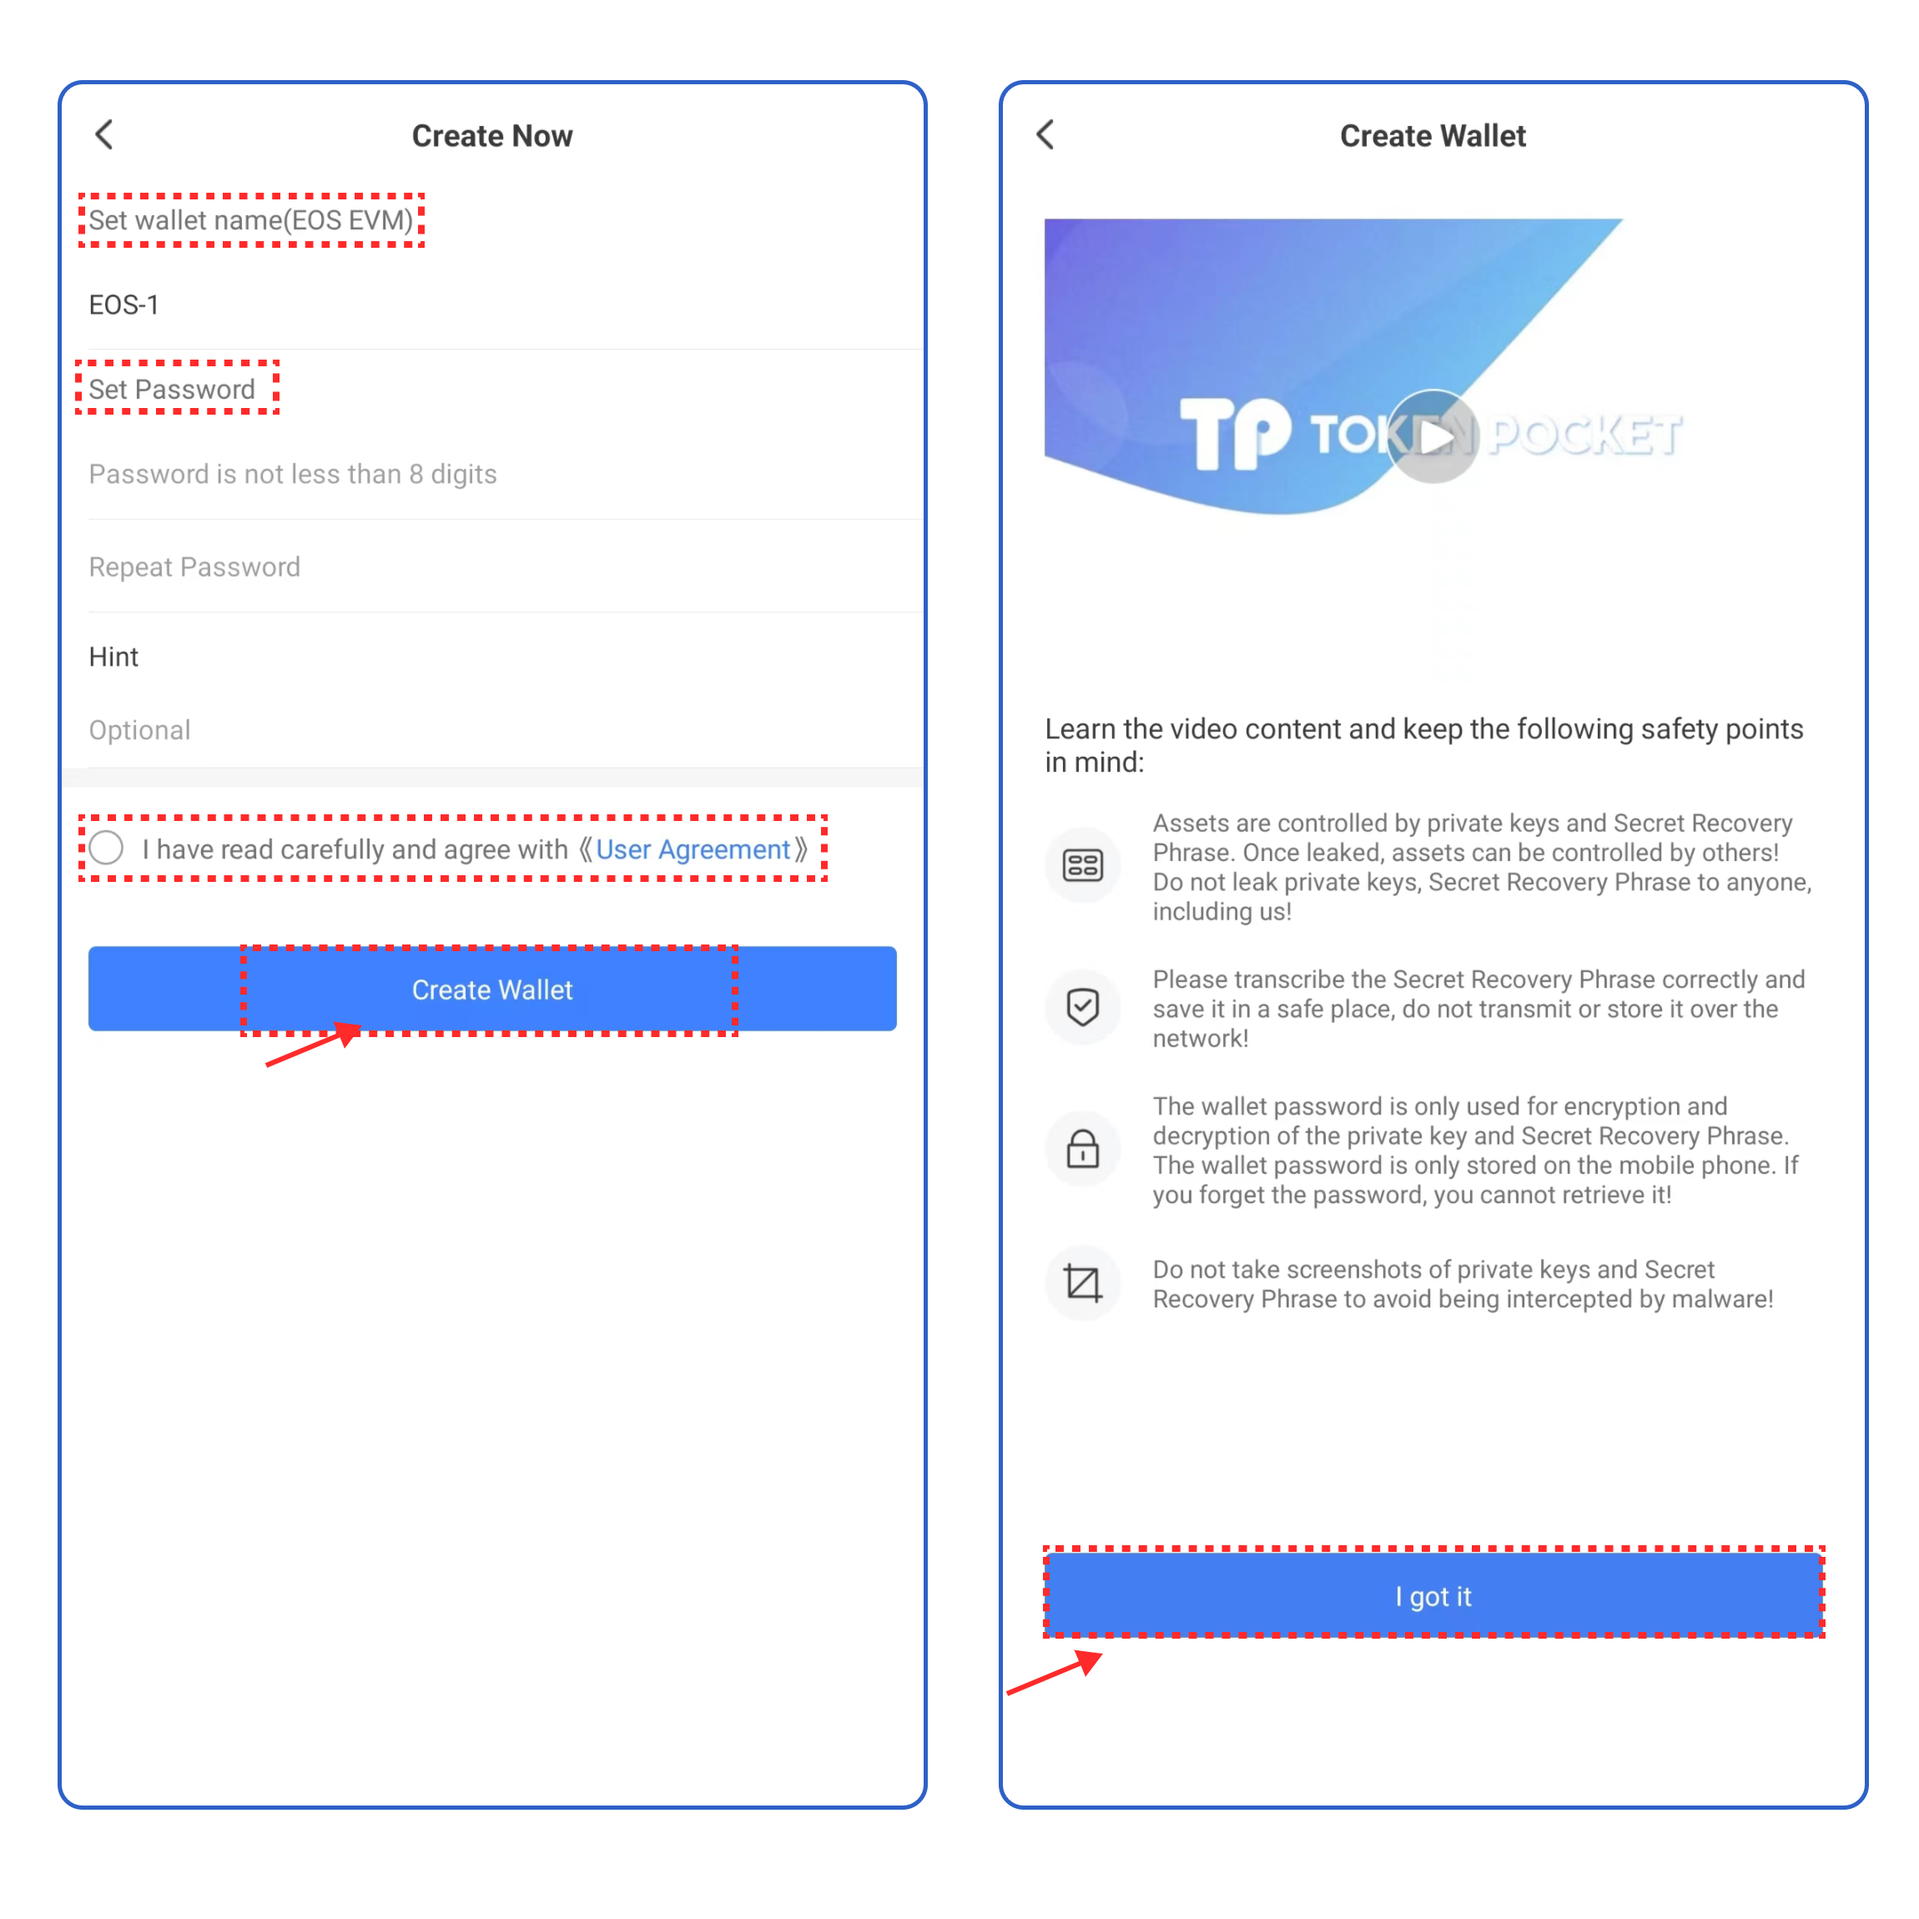
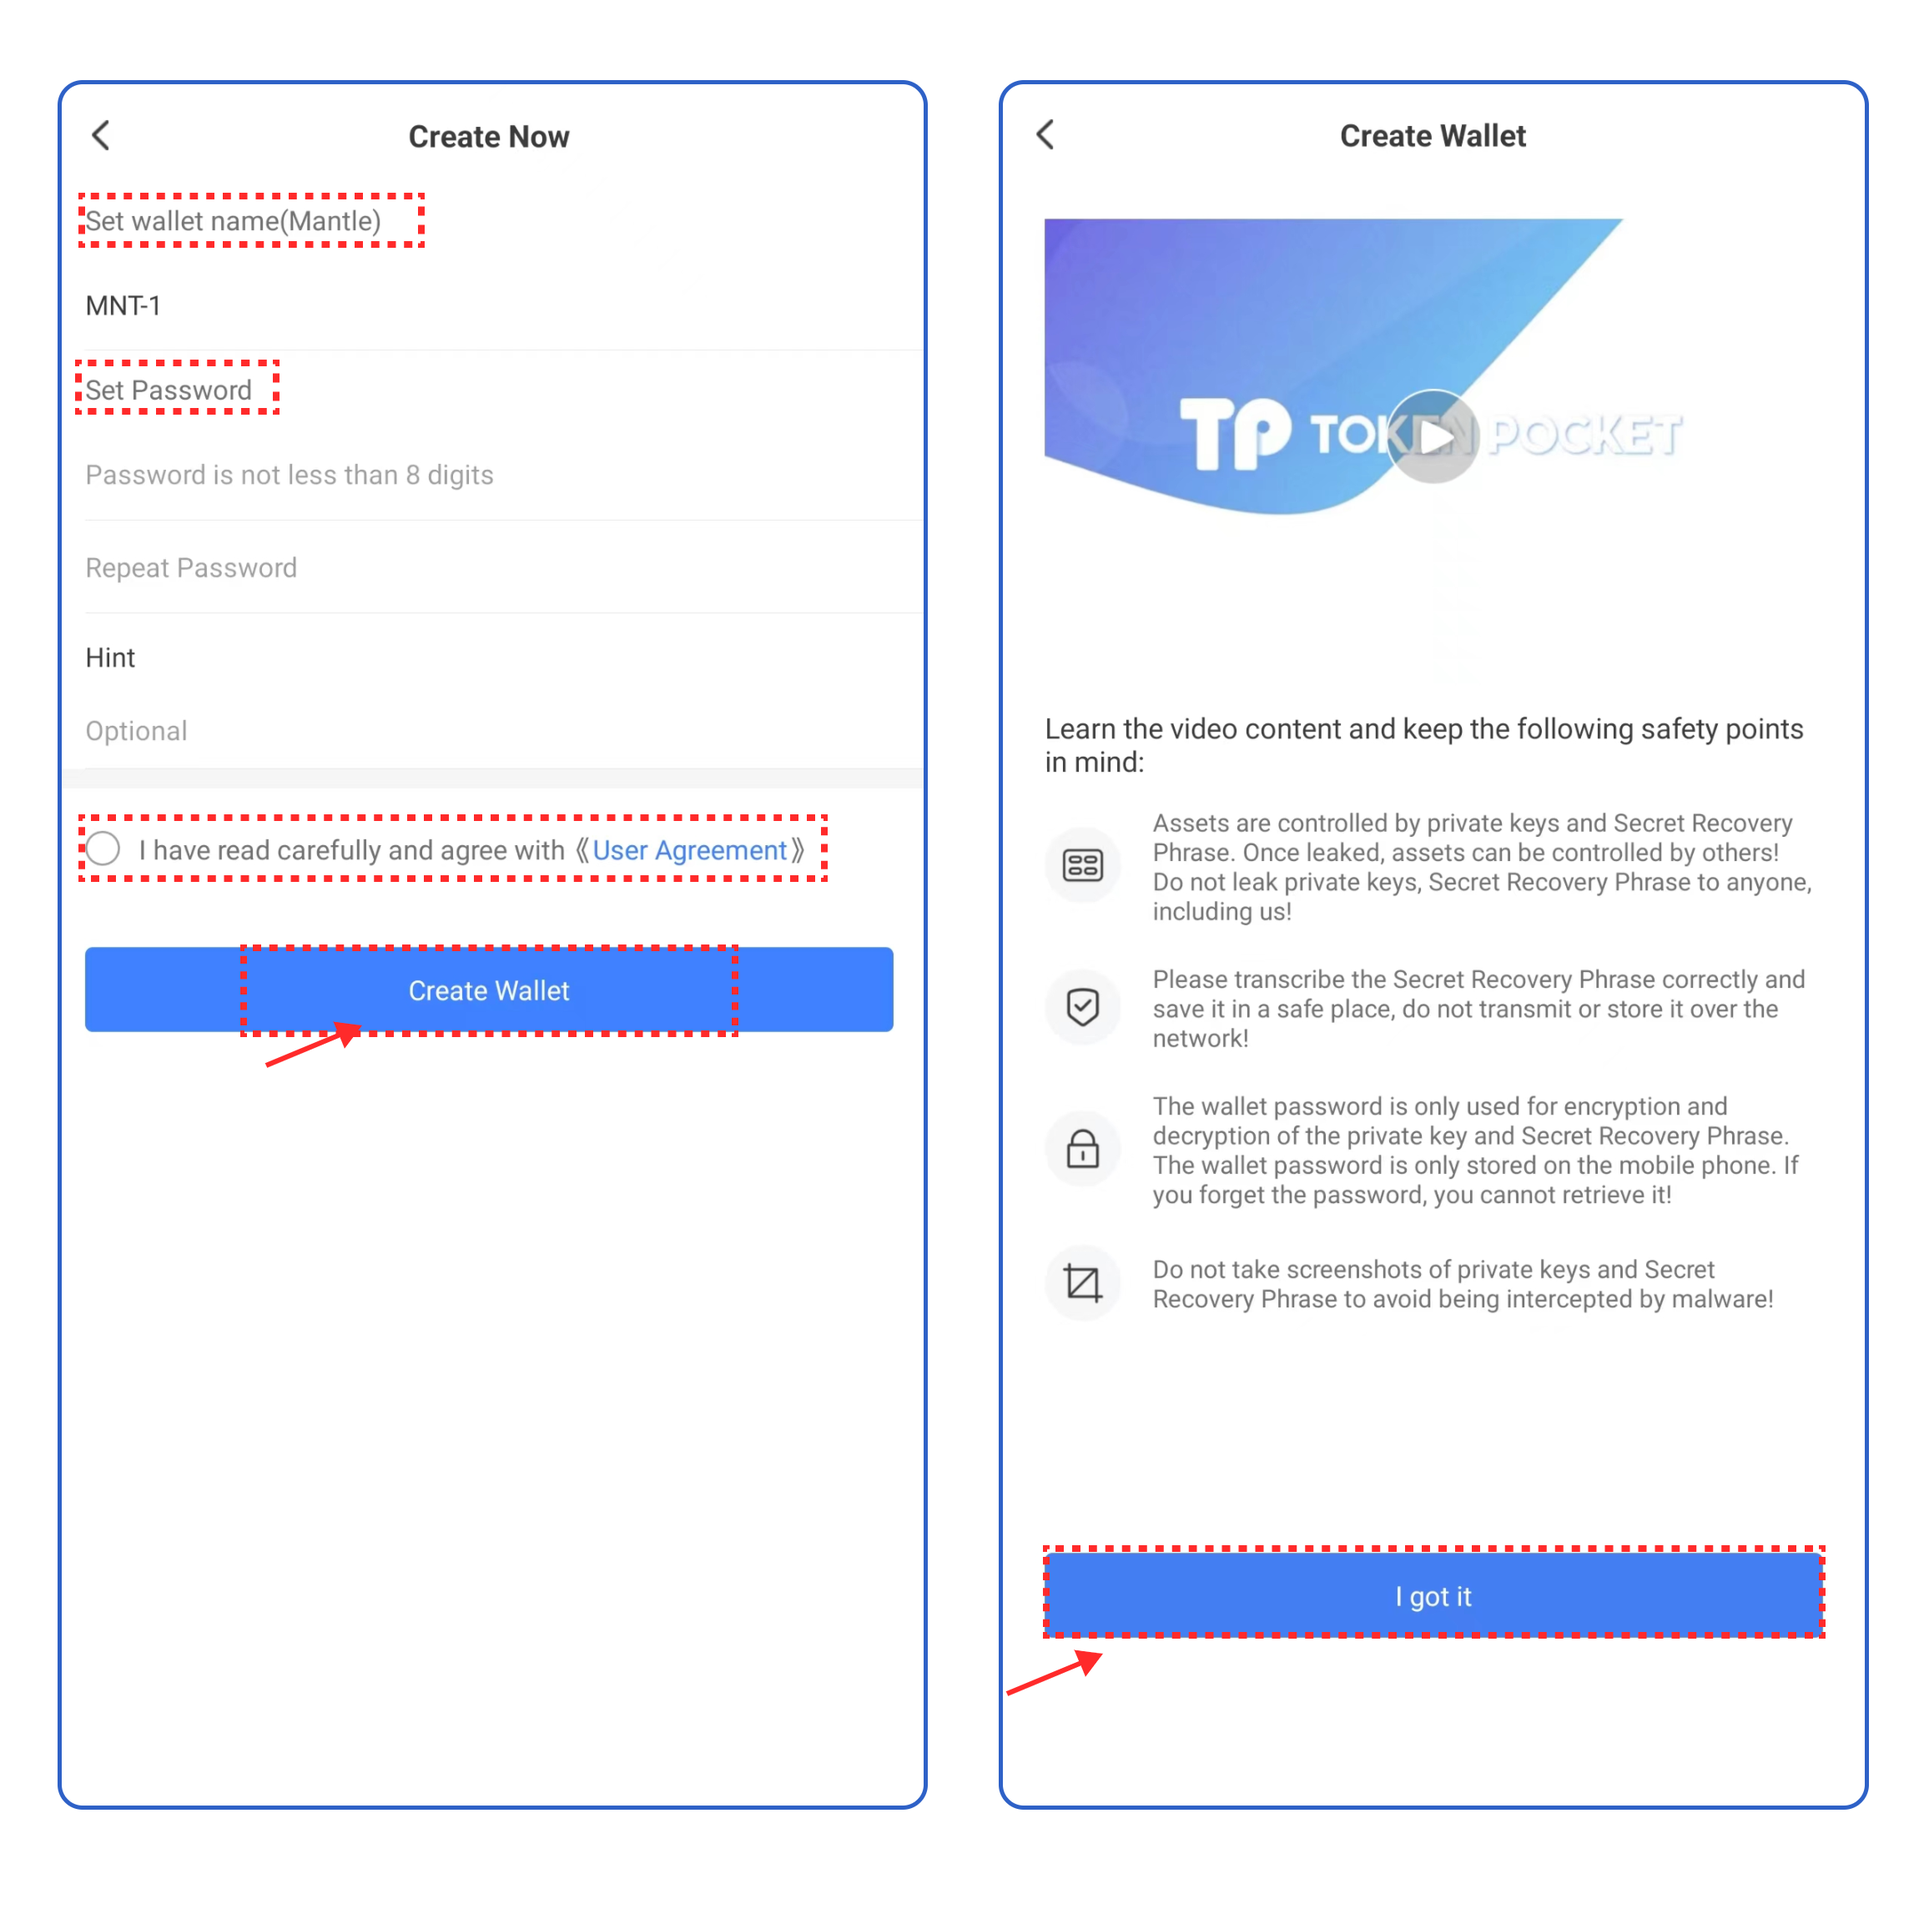
GITBOOK-1090: change request with no subject merged in GitBook

diff --git a/wallet-operation/how-to-create-a-wallet/mantle.md b/wallet-operation/how-to-create-a-wallet/mantle.md
@@ -1,0 +1,41 @@
+# Mantle Use Guide
+
+### <mark style="color:orange;">**How to create a Mantle wallet in TokenPocket?**</mark> <a href="#how-to-create-an-etc-wallet-in-tokenpocket" id="how-to-create-an-etc-wallet-in-tokenpocket"></a>
+
+1. Open TokenPocket APP, click ![](<../../.gitbook/assets/image (2) (1).png>) on the upper right corner, and select **Mantle**;
+
+<figure><img src="../../.gitbook/assets/dogecn1 2 (1).png" alt=""><figcaption></figcaption></figure>
+
+2\. Click **\[Create Wallet]**  and click **\[Create Wallet]** again;
+
+<figure><img src="../../.gitbook/assets/组 103.png" alt=""><figcaption></figcaption></figure>
+
+3\. Set the wallet name and password, click the User Agreement, and click **\[Create Wallet].** Watch and learn the video content, click **\[I got it].**
+
+<figure><img src="../../.gitbook/assets/dogecn3 2.png" alt=""><figcaption></figcaption></figure>
+
+4\.  Select the security tips, and click **\[Next Step]**. Back up the secret recovery phrase on the paper or on the [**KeyPal**](https://www.keypal.pro/en/), and store it in a safe place. Click **\[Completed backup, verify now]** .
+
+<figure><img src="../../.gitbook/assets/image (26).png" alt=""><figcaption></figcaption></figure>
+
+5\. Enter your secret recovery phrase, and click **\[Confirm].** At this point, you have successfully created a **Mantle** wallet.
+
+<mark style="color:red;">**Attention: Do not disclose the private key or secret recovery phrase to the third party!**</mark>
+
+
+
+<figure><img src="../../.gitbook/assets/dogecn5 2 (1).png" alt=""><figcaption></figcaption></figure>
+
+### <mark style="color:orange;">**How to import a Mantle wallet into TokenPocket?**</mark> <a href="#how-to-import-an-etc-wallet-into-tokenpocket" id="how-to-import-an-etc-wallet-into-tokenpocket"></a>
+
+1. Open TokenPocket APP, click![](<../../.gitbook/assets/image (8).png>) on the upper right corner, and select **Mantle;**
+
+<figure><img src="../../.gitbook/assets/dogecn1 2 (1).png" alt=""><figcaption></figcaption></figure>
+
+2\. Click **\[Import Wallet]**, and select the way you want to import your wallet.
+
+<figure><img src="../../.gitbook/assets/组 106.png" alt=""><figcaption></figcaption></figure>
+
+3\. Take **\[Recovery Phrase import]** as an example, enter your secret recovery phrase, wallet name, and password, click the User Agreement, and click **\[Import Wallet]**. At this point, you have successfully imported a **Mantle** wallet.&#x20;
+
+<figure><img src="../../.gitbook/assets/组 65.png" alt=""><figcaption></figcaption></figure>

diff --git a/wallet-operation/how-to-create-a-wallet/eos-evm.md b/wallet-operation/how-to-create-a-wallet/eos-evm.md
@@ -12,7 +12,7 @@
 
 3\. Set the wallet name and password, click the User Agreement, and click **\[Create Wallet].** Watch and learn the video content, click **\[I got it].**
 
-<figure><img src="../../.gitbook/assets/dogecn3 2.png" alt=""><figcaption></figcaption></figure>
+<figure><img src="../../.gitbook/assets/dogecn3 2 (1).png" alt=""><figcaption></figcaption></figure>
 
 4\.  Select the security tips, and click **\[Next Step]**. Back up the secret recovery phrase on the paper or on the [**KeyPal**](https://www.keypal.pro/en/), and store it in a safe place. Click **\[Completed backup, verify now]** .
 
@@ -36,4 +36,4 @@
 
 3\. Take **\[Recovery Phrase import]** as an example, enter your secret recovery phrase, wallet name, and password, click the User Agreement, and click **\[Import Wallet]**. At this point, you have successfully imported an EOS EVM wallet.
 
-<figure><img src="../../.gitbook/assets/组 65.png" alt=""><figcaption></figcaption></figure>
+<figure><img src="../../.gitbook/assets/组 65 (1).png" alt=""><figcaption></figcaption></figure>

diff --git a/SUMMARY.md b/SUMMARY.md
@@ -193,6 +193,7 @@
   * [How to collect DAPP and TIP-001 protocol?](wallet-operation/how-to-collect-dapp-and-tip-001-protocol-ios.md)
 * [How to Create a Wallet?](defi-tutorial/how-to-trade-on-dex/README.md)
   * [How to create sub-wallets in batches](wallet-operation/how-to-create-a-wallet/batch.md)
+  * [Mantle Use Guide](wallet-operation/how-to-create-a-wallet/mantle.md)
   * [Sui Use Guide](wallet-operation/how-to-create-a-wallet/sui.md)
   * [Pulse Chain User Guide](wallet-operation/how-to-create-a-wallet/pulsechain.md)
   * [EOS EVM Use Guide](wallet-operation/how-to-create-a-wallet/eos-evm.md)
